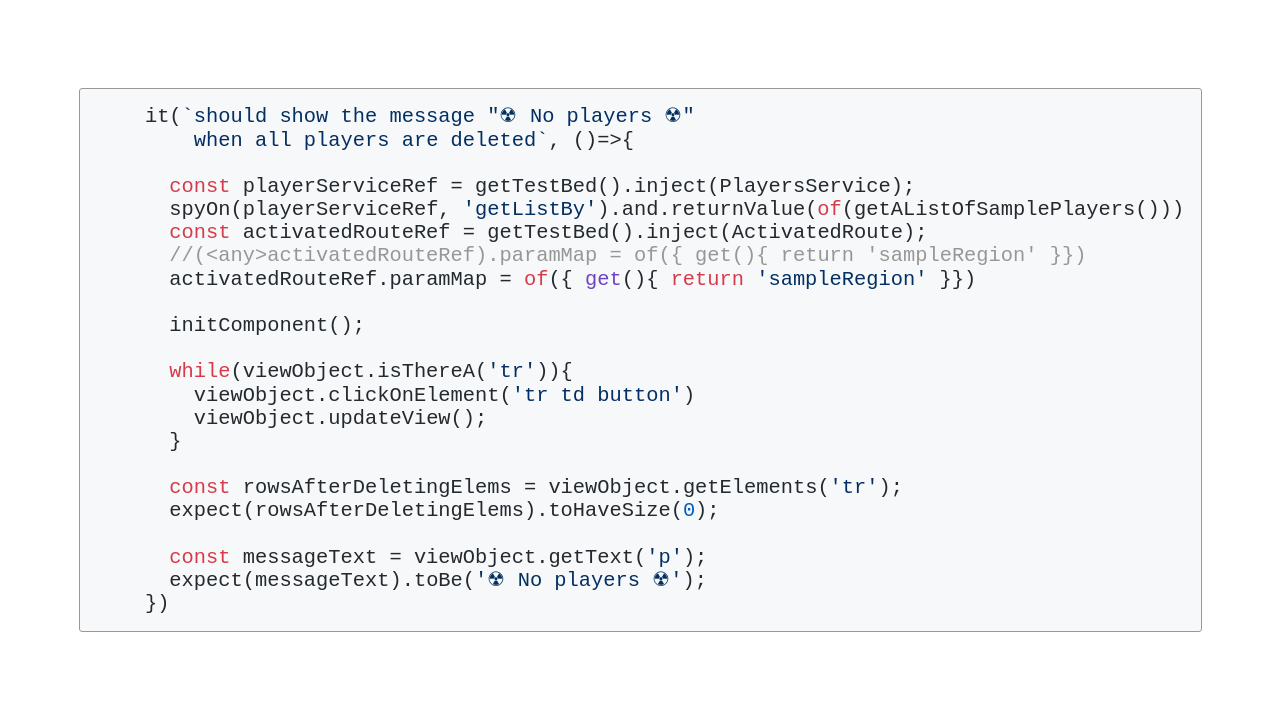
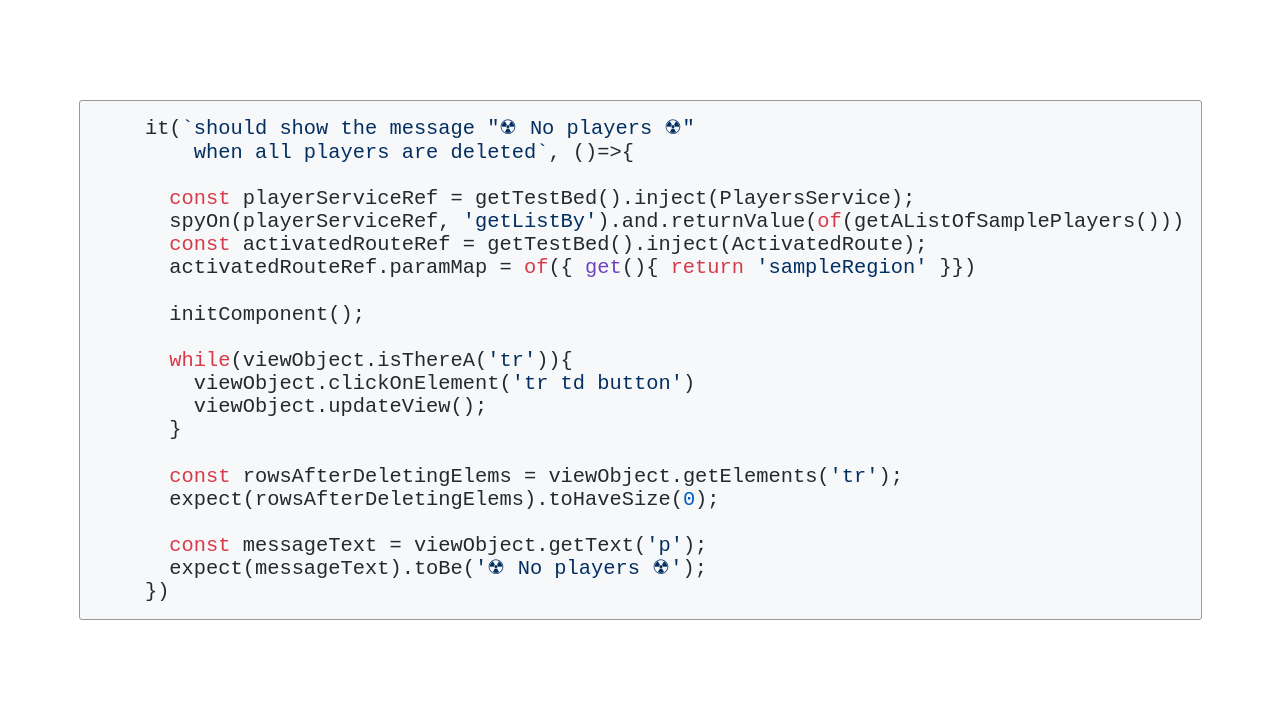
corrige errors de texto

diff --git a/pruebas-frontend/src/app/players-list/iteracion3/players-list.component.spec.ts b/pruebas-frontend/src/app/players-list/iteracion3/players-list.component.spec.ts
@@ -141,7 +141,7 @@ describe('[Iteracion 3] - PlayersListComponent', () => {
   })
 
   it(`should redirect to "not-found"  
-       when the service return an error`, ()=>{
+       when the service returns an error`, ()=>{
 
     const playerServiceRef = getTestBed().inject(PlayersService);
     spyOn(playerServiceRef, 'getListBy').and.returnValue(throwError(new Error("Invalid Region")));
@@ -156,7 +156,7 @@ describe('[Iteracion 3] - PlayersListComponent', () => {
   })
 
   it(`should show the message "☢ No players ☢"
-      when the service return an empty list`, ()=>{
+      when the service returns an empty list`, ()=>{
 
     const playersServiceRef = getTestBed().inject(PlayersService);
     spyOn(playersServiceRef, 'getListBy').and.returnValue(of({ region: "", list: [] }));
@@ -182,8 +182,8 @@ describe('[Iteracion 3] - PlayersListComponent', () => {
   })
 
   it(`should show just the players from "USA"
-      when the word "USA" is typped in the input filter box
-      and there is not other row with the word "USA"`, ()=>{
+        when there is a list of sample players around the world 
+        and the word "USA" is typped in the input filter box`, ()=>{
 
       const playerServiceRef = getTestBed().inject(PlayersService);
       spyOn(playerServiceRef, 'getListBy').and.returnValue(of(getAListOfPlayersWhereOneOfThemIsFromUSA()))

diff --git a/pruebas-frontend/src/app/players-list/iteracion4/players-list.component.spec.ts b/pruebas-frontend/src/app/players-list/iteracion4/players-list.component.spec.ts
@@ -133,7 +133,7 @@ describe('[Iteracion 4] - PlayersListComponent', () => {
   })
 
   it(`should redirect to "not-found"  
-       when the service return an error`, ()=>{
+       when the service returns an error`, ()=>{
 
     const playerServiceRef = getTestBed().inject(PlayersService);
     spyOn(playerServiceRef, 'getListBy').and.returnValue(throwError(new Error("Invalid Region")));
@@ -148,7 +148,7 @@ describe('[Iteracion 4] - PlayersListComponent', () => {
   })
 
   it(`should show the message "☢ No players ☢"
-      when the service return an empty list`, ()=>{
+      when the service returns an empty list`, ()=>{
 
     const playersServiceRef = getTestBed().inject(PlayersService);
     spyOn(playersServiceRef, 'getListBy').and.returnValue(of({ region: "", list: [] }));
@@ -175,8 +175,8 @@ describe('[Iteracion 4] - PlayersListComponent', () => {
   })
 
   it(`should show just the players from "USA"
-      when the word "USA" is typped in the input filter box
-      and there is not other row with the word "USA"`, ()=>{
+      when there is a list of sample players around the world 
+      and the word "USA" is typped in the input filter box`, ()=>{
 
       const playerServiceRef = getTestBed().inject(PlayersService);
       spyOn(playerServiceRef, 'getListBy').and.returnValue(of(getAListOfPlayersWhereOneOfThemIsFromUSA()))

diff --git a/pruebas-frontend/src/app/players-list/iteracion5/players-list.component.spec.ts b/pruebas-frontend/src/app/players-list/iteracion5/players-list.component.spec.ts
@@ -138,7 +138,7 @@ describe('[Iteracion 5] - PlayersListComponent', () => {
   })
 
   it(`should redirect to "not-found"  
-       when the service return an error`, ()=>{
+       when the service returns an error`, ()=>{
 
     playersSpy.getListBy().throw(getSampleError())
     const spy = routerSpy.navigateByUrl().resolve(true);
@@ -150,7 +150,7 @@ describe('[Iteracion 5] - PlayersListComponent', () => {
   })
 
   it(`should show the message "☢ No players ☢"
-      when the service return an empty list`, ()=>{
+      when the service returns an empty list`, ()=>{
 
     playersSpy.getListBy().return(getEmptySampleResponse());
     activatedRouteSpy.paramMap('sampleRegion');
@@ -173,8 +173,8 @@ describe('[Iteracion 5] - PlayersListComponent', () => {
   })
 
   it(`should show just the players from "USA"
-      when the word "USA" is typped in the input filter box
-      and there is not other row with the word "USA"`, ()=>{
+      when there is a list of sample players around the world 
+      and the word "USA" is typped in the input filter box`, ()=>{
 
       playersSpy.getListBy().return(getAListOfPlayersWhereOneOfThemIsFromUSA());
       activatedRouteSpy.paramMap('sampleRegion');

diff --git a/pruebas-frontend/src/app/players-list/iteracion2/players-list.component.spec.ts b/pruebas-frontend/src/app/players-list/iteracion2/players-list.component.spec.ts
@@ -203,7 +203,7 @@ describe('[Iteracion 2] - PlayersListComponent', () => {
   })
 
   it(`should redirect to "not-found"  
-       when the service return an error`, ()=>{
+       when the service returns an error`, ()=>{
 
     const activatedRouteSpy = getTestBed().inject(ActivatedRoute);
         (activatedRouteSpy as any).paramMap = of({ 
@@ -222,7 +222,7 @@ describe('[Iteracion 2] - PlayersListComponent', () => {
   })
 
   it(`should show the message "☢ No players ☢"
-      when the service return an empty list`, ()=>{
+      when the service returns an empty list`, ()=>{
 
     const playersServiceRef = getTestBed().inject(PlayersService);
     spyOn(playersServiceRef, 'getListBy').and.returnValue(of({ region: "", list: [] }));
@@ -240,8 +240,8 @@ describe('[Iteracion 2] - PlayersListComponent', () => {
   })
 
   it(`should show just the players from "USA"
-      when the word "USA" is typped in the input filter box
-      and there is not other row with the word "USA"`, ()=>{
+        when there is a list of sample players around the world 
+        and the word "USA" is typped in the input filter box`, ()=>{
 
         const filterValue = "USA";
 

diff --git a/pruebas-frontend/src/app/players-list/iteracion1/players-list.component.spec.ts b/pruebas-frontend/src/app/players-list/iteracion1/players-list.component.spec.ts
@@ -202,7 +202,7 @@ describe('[Iteracion 1] - PlayersListComponent', () => {
   })
 
   it(`should redirect to "not-found"  
-       when the service return an error`, ()=>{
+       when the service returns an error`, ()=>{
 
     const activatedRouteSpy = getTestBed().inject(ActivatedRoute);
         (activatedRouteSpy as any).paramMap = of({ 
@@ -221,7 +221,7 @@ describe('[Iteracion 1] - PlayersListComponent', () => {
   })
 
   it(`should show the message "☢ No players ☢"
-      when the service return an empty list`, ()=>{
+      when the service returns an empty list`, ()=>{
 
     const playersServiceRef = getTestBed().inject(PlayersService);
     spyOn(playersServiceRef, 'getListBy').and.returnValue(of({ region: "", list: [] }));
@@ -239,8 +239,8 @@ describe('[Iteracion 1] - PlayersListComponent', () => {
   })
 
   it(`should show just the players from "USA"
-      when the word "USA" is typped in the input filter box
-      and there is not other row with the word "USA"`, ()=>{
+       when there is a list of sample players around the world 
+       and the word "USA" is typped in the input filter box`, ()=>{
 
         const filterValue = "USA";
 

diff --git a/pruebas-frontend/src/app/players-list/iteracion6/players-list.component.spec.ts b/pruebas-frontend/src/app/players-list/iteracion6/players-list.component.spec.ts
@@ -74,7 +74,7 @@ describe('[Iteracion 6] - PlayersListComponent', () => {
   })
 
   it(`should redirect to "not-found"  
-       when the service return an error`, ()=>{
+       when the service returns an error`, ()=>{
 
       const step = new Step();
 
@@ -83,7 +83,7 @@ describe('[Iteracion 6] - PlayersListComponent', () => {
   })
 
   it(`should show the message "☢ No players ☢"
-      when the service return an empty list`, ()=>{
+      when the service returns an empty list`, ()=>{
 
       const step = new Step();
       
@@ -100,8 +100,8 @@ describe('[Iteracion 6] - PlayersListComponent', () => {
   })
 
   it(`should show just the players from "USA"
-      when the word "USA" is typped in the input filter box
-      and there is not other row with the word "USA"`, ()=>{
+      when there is a list of sample players around the world 
+      and the word "USA" is typped in the input filter box`, ()=>{
 
       const step = new Step();
       

diff --git a/Iteracion_1.md b/Iteracion_1.md
@@ -142,7 +142,7 @@ Tambien teniamos pruebas como estas, que para no usar el mock glabal y hacerlo m
 
 ```js
   it(`should show the message "☢ No players ☢"
-      when the service return an empty list`, ()=>{
+      when the service returns an empty list`, ()=>{
 
     // Aqui se pide una referencia al servicio y luego se lo setea el mock
     const playersServiceRef = getTestBed().inject(PlayersService);
@@ -163,8 +163,8 @@ Al momento de hacer esta prueba nos encontramos con otro problema, el servicio q
 
 ```js
 it(`should show just the players from "USA"
-      when the word "USA" is typped in the input filter box
-      and there is not other row with the word "USA"`, ()=>{
+      when there is a list of sample players around the world 
+      and the word "USA" is typped in the input filter box`, ()=>{
 
     const filterValue = "USA";
 

diff --git a/slices/iteracion3/iteracion3_ejemplo1.md b/slices/iteracion3/iteracion3_ejemplo1.md
@@ -4,13 +4,12 @@ marp: true
 
 ```js
 it(`should show just the players from "USA"
-      when the word "USA" is typped in the input filter box
-      and there is not other row with the word "USA"`, ()=>{
+      when there is a list of sample players around the world 
+      and the word "USA" is typped in the input filter box`, ()=>{
 
       const playerServiceRef = getTestBed().inject(PlayersService);
       spyOn(playerServiceRef, 'getListBy').and.returnValue(of(getAListOfPlayersWhereOneOfThemIsFromUSA()))
       const activatedRouteRef = getTestBed().inject(ActivatedRoute);
-      //(<any>activatedRouteRef).paramMap = of({ get(){ return 'sampleRegion' }});
       activatedRouteRef.paramMap = of({ get(){ return 'sampleRegion' }});
 
       initComponent();

diff --git a/slices/iteracion4/iteracion4_ejemplo1.md b/slices/iteracion4/iteracion4_ejemplo1.md
@@ -4,13 +4,12 @@ marp: true
 
 ```js
 it(`should show just the players from "USA"
-      when the word "USA" is typped in the input filter box
-      and there is not other row with the word "USA"`, ()=>{
+      when there is a list of sample players around the world 
+      and the word "USA" is typped in the input filter box`, ()=>{
 
       const playerServiceRef = getTestBed().inject(PlayersService);
       spyOn(playerServiceRef, 'getListBy').and.returnValue(of(getAListOfPlayersWhereOneOfThemIsFromUSA()))
       const activatedRouteRef = getTestBed().inject(ActivatedRoute);
-      //(<any>activatedRouteRef).paramMap = of({ get(){ return 'sampleRegion' }})
       activatedRouteRef.paramMap = of({ get(){ return 'sampleRegion' }})
 
       initComponent();

diff --git a/slices/iteracion1/iteracion1_ejemplo1.md b/slices/iteracion1/iteracion1_ejemplo1.md
@@ -4,13 +4,11 @@ marp: true
 
 ```js
   it(`should show the message "☢ No players ☢"
-      when the service return an empty list`, ()=>{
+      when the service returns an empty list`, ()=>{
 
-    // Aqui se pide una referencia al servicio y luego se lo setea el mock
     const playersServiceRef = getTestBed().inject(PlayersService);
     spyOn(playersServiceRef, 'getListBy').and.returnValue(of({ region: "", list: [] }));
     
-    // Se invoca al evento init otra vez (por defecto ya se hace en el beforeEach)
     component.ngOnInit();
     fixture.detectChanges();
 

diff --git a/Iteracion_3.md b/Iteracion_3.md
@@ -44,8 +44,8 @@ function initComponent(){
 
 ```js
 it(`should show just the players from "USA"
-      when the word "USA" is typped in the input filter box
-      and there is not other row with the word "USA"`, ()=>{
+      when there is a list of sample players around the world 
+      and the word "USA" is typped in the input filter box`, ()=>{
 
       const playerServiceRef = getTestBed().inject(PlayersService);
       spyOn(playerServiceRef, 'getListBy').and.returnValue(of(getAListOfPlayersWhereOneOfThemIsFromUSA()))

diff --git a/Iteracion_4.md b/Iteracion_4.md
@@ -50,8 +50,8 @@ export class ViewObject {
 
 ```js
 it(`should show just the players from "USA"
-      when the word "USA" is typped in the input filter box
-      and there is not other row with the word "USA"`, ()=>{
+      when there is a list of sample players around the world 
+      and the word "USA" is typped in the input filter box`, ()=>{
 
       const playerServiceRef = getTestBed().inject(PlayersService);
       spyOn(playerServiceRef, 'getListBy').and.returnValue(of(getAListOfPlayersWhereOneOfThemIsFromUSA()))
